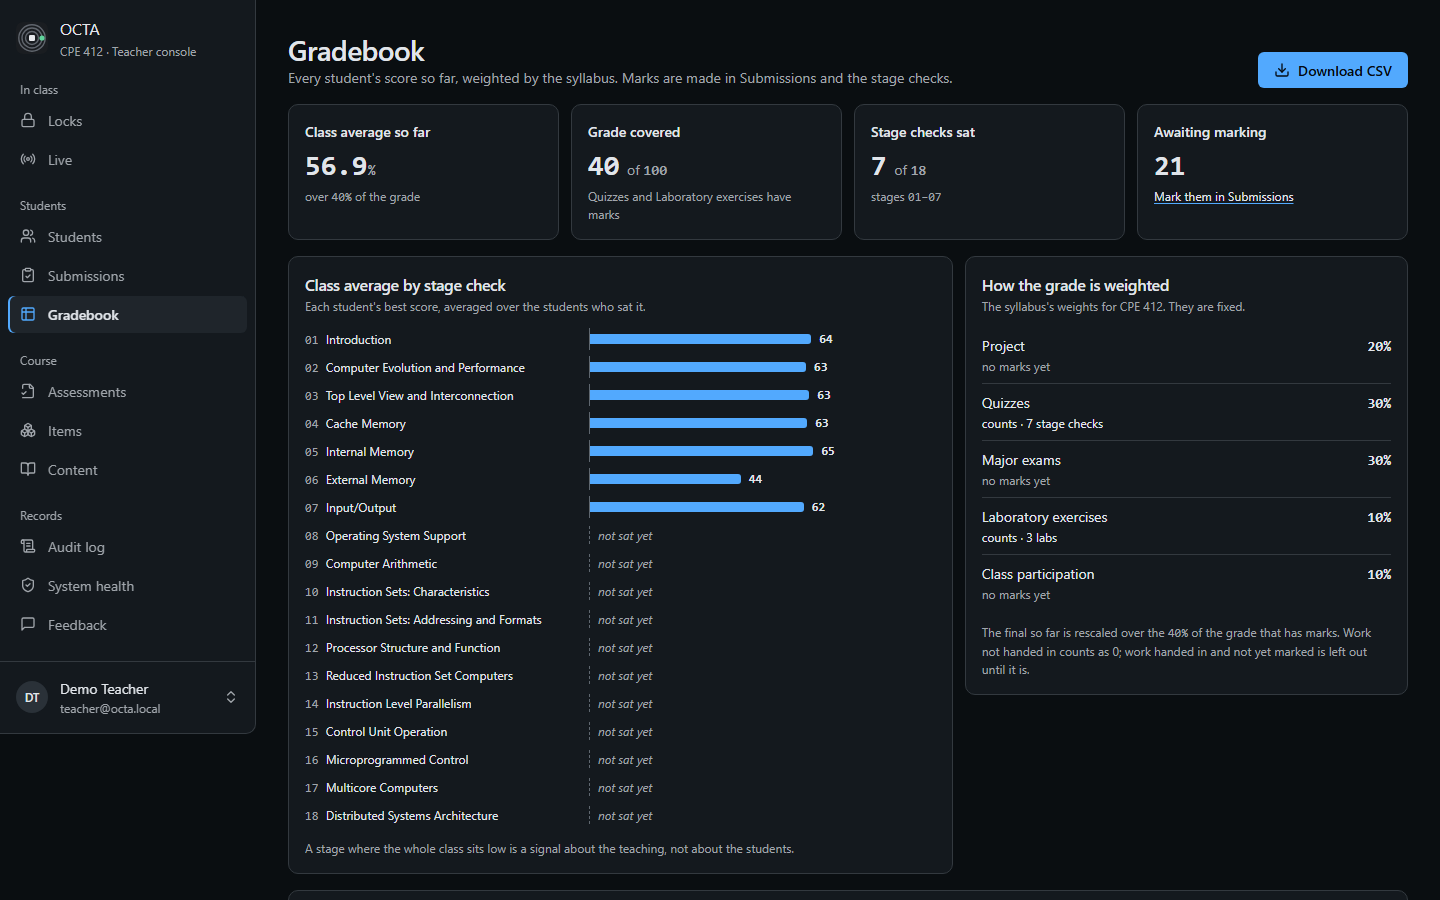
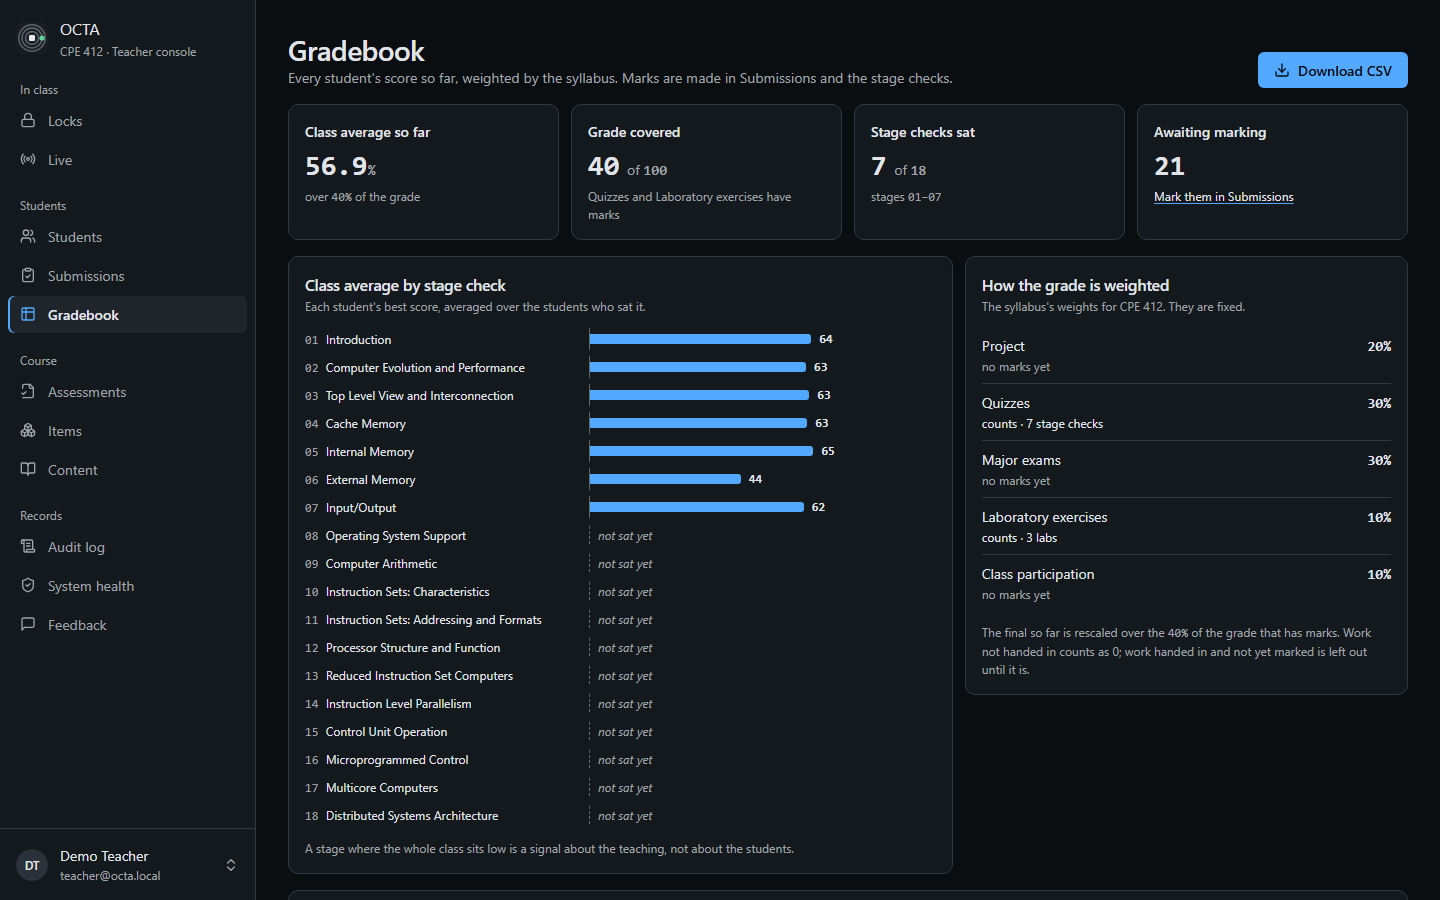
fix(console): the template's frame, and only the page scrolls
Instructor, on the content-height sidebar: "just make the layout of it
the same as the templates just make the inner page itself scrollable not
the sidebar". At lg and up the sidebar runs the window's height with the
account at its foot and never moves; <main> is the only scroller and the
document does not scroll. The 380 sheet is full height again.

main is position: relative, so absolute sr-only text stays in its scroll
box (it had grown the document to 2223px), and .shell does not clip, so
the gate reads content below main's fold as scrolled, not cut off.
console-shell.spec.ts asserts the new frame, watched failing against the
previous layout. Every console spec: 455 passed, 51 skipped, 0 failed.

diff --git a/apps/console/src/index.css b/apps/console/src/index.css
@@ -1643,8 +1643,8 @@
  * ------------------------------------------------------------ the shell
  *
  * `design/templates/console/shell/SPEC.md`: shadcn-admin's sidebar. At lg and
- * up a 16rem sidebar that STAYS (sticky, its own height), so a long page
- * never scrolls the nav and the account away. Below lg, a bar that names the
+ * up a full-height 16rem sidebar that never moves; only <main> scrolls, so a long
+ * page never takes the nav and the account with it. Below lg, a bar that names the
  * page, and the same <aside> as an 18rem sheet from the left over the scrim.
  *
  * 16rem, not wider: <main>'s content box is 70rem at 1440 with it, measured
@@ -1677,11 +1677,8 @@
   }
   .shell-side-open {
     position: fixed;
-    top: 0;
+    inset-block: 0;
     left: 0;
-    max-height: 100vh;
-    border-bottom: var(--border-hair) solid var(--line);
-    border-bottom-right-radius: var(--radius-lg);
     z-index: var(--z-sheet);
     width: 18rem;
     max-width: calc(100vw - var(--space-7));
@@ -1693,7 +1690,7 @@
   .shell-mark { width: var(--size-8); height: var(--size-8); flex-shrink: 0; }
 
   .shell-nav {
-    flex: 0 1 auto;
+    flex: 1;
     min-height: 0;
     overflow-y: auto;
     display: flex;
@@ -1761,30 +1758,32 @@
 
   .shell-skel-link { height: var(--space-5); margin: var(--space-1) var(--space-3); }
 
+  /*
+   * At lg and up the frame is the window, as in the template: the sidebar
+   * runs its full height with the account at its foot, and it never moves.
+   * ONLY <main> scrolls (instructor, 28 Sep 2026: "make the inner page itself
+   * scrollable, not the sidebar"). The document itself does not scroll, so a
+   * full-page capture at 1440 needs a viewport taller than the page.
+   */
   @media (min-width: 1024px) {
-    .shell { flex-direction: row; }
-    /*
-     * As tall as its content, not as tall as the window (instructor, 28 Sep
-     * 2026: "nav bar should not be this long"). It hangs from the top and
-     * stays there while the page scrolls; only a window shorter than the nav
-     * makes the nav scroll inside it.
-     */
+    /* No overflow: hidden here. The frame is exactly the window, <main> takes
+       every overflow, and a clipping .shell would make the gate read everything
+       below main's fold as cut off rather than scrolled. */
+    .shell { flex-direction: row; height: 100vh; }
     .shell-side,
     .shell-side-open {
-      position: sticky;
-      top: 0;
-      align-self: flex-start;
-      height: auto;
-      max-height: 100vh;
-      border-bottom: var(--border-hair) solid var(--line);
-      border-bottom-right-radius: var(--radius-lg);
+      position: static;
+      height: 100vh;
       width: 16rem;
       max-width: none;
       flex-shrink: 0;
       box-shadow: none;
       animation: none;
     }
-    .shell-main { padding: var(--space-6); }
+    /* position: relative makes <main> the containing block of every absolutely
+       positioned descendant (sr-only text among them). Without it they escape
+       the scroller and the DOCUMENT grows to 2223px on /gradebook. */
+    .shell-main { position: relative; height: 100vh; overflow-y: auto; padding: var(--space-6); }
   }
 
   /* Below lg the bar is sticky: a control scrolled into view must not park under it. */

diff --git a/design/specs/console-shell.spec.ts b/design/specs/console-shell.spec.ts
@@ -263,7 +263,7 @@ test.describe("the shell — what it owes every route", () => {
     expect(await page.evaluate(() => localStorage.getItem("octa:dev-token"))).toBeNull();
   });
 
-  test("1440: the sidebar stays beside a long page, and main keeps its 70rem", async ({ page }, testInfo) => {
+  test("1440: only <main> scrolls; the sidebar runs the window's height and never moves", async ({ page }, testInfo) => {
     test.skip(narrow(testInfo), "the sidebar is a sheet below lg");
     await open(page, "/gradebook");
     await page.locator("[data-student]").first().waitFor({ timeout: 15_000 });
@@ -277,13 +277,33 @@ test.describe("the shell — what it owes every route", () => {
     });
     expect(content, "main's content box at 1440").toBeGreaterThanOrEqual(70 * 16);
 
-    await page.evaluate(() => window.scrollTo(0, document.documentElement.scrollHeight));
+    /*
+     * Instructor, 28 Sep 2026: the template's layout, "make the inner page
+     * itself scrollable, not the sidebar". The DOCUMENT does not scroll;
+     * <main> does, and /gradebook is long enough that it must.
+     */
+    const scroll = await page.evaluate(() => {
+      const d = document.documentElement;
+      const m = document.querySelector("main")!;
+      return { doc: d.scrollHeight - d.clientHeight, main: m.scrollHeight - m.clientHeight };
+    });
+    expect(scroll.doc, "the window itself must not scroll").toBeLessThanOrEqual(0);
+    expect(scroll.main, "a long route scrolls inside <main>").toBeGreaterThan(0);
+
+    const footBefore = await accountButton(page).boundingBox();
+    await page.locator("main").evaluate((m) => m.scrollTo(0, m.scrollHeight));
     await page.waitForTimeout(200);
+    expect(await page.locator("main").evaluate((m) => m.scrollTop), "main scrolled").toBeGreaterThan(0);
+
+    // The account sits at the window's foot, and did not move.
     const box = await accountButton(page).boundingBox();
-    expect(box, "the account block is still on screen at the foot of the page").not.toBeNull();
+    expect(box).not.toBeNull();
     expect(box!.y + box!.height).toBeLessThanOrEqual(900);
-    expect(box!.y).toBeGreaterThan(0);
+    expect(box!.y + box!.height, "pinned to the foot of the window").toBeGreaterThan(900 - 80);
+    expect(box!.y).toBe(footBefore!.y);
     await expect(page.getByRole("link", { name: "Locks" })).toBeInViewport();
+    const side = await page.locator("#console-nav").boundingBox();
+    expect(side!.height, "the sidebar runs the window's full height").toBeGreaterThanOrEqual(899);
   });
 
   test("380: the bar names the page you are on", async ({ page }, testInfo) => {
@@ -299,6 +319,8 @@ test.describe("the shell — what it owes every route", () => {
     await open(page);
     await openMenu(page);
     await expect(menuButton(page)).toHaveAttribute("aria-expanded", "true");
+    // The template's sheet: the window's full height, the account at its foot.
+    expect((await page.locator("#console-nav").boundingBox())!.height).toBeGreaterThanOrEqual(843);
     await page.getByRole("link", { name: "Locks" }).focus();
     await page.keyboard.press("Escape");
     await expect(page.locator("#console-nav")).toBeHidden();

diff --git a/design/templates/console/shell/SPEC.md b/design/templates/console/shell/SPEC.md
@@ -15,13 +15,15 @@ since every route renders inside it.
   *Records*: Audit log, System health, Feedback. **Live moves up** beside
   Locks: they are the two pages opened mid-class. Every route is still
   offered; none is added or removed.
-- **The sidebar is only as tall as what it holds** ("nav bar should not be
-  this long", after the first build). The template's full-height column with
-  the account pinned to the window's foot left an empty column between
-  Feedback and the account on every screen. The sidebar now ends under the
-  account (733px at 1440), hangs from the top and stays there while the page
-  scrolls; it scrolls inside itself only in a window shorter than the nav.
-  The same for the 380 sheet.
+- **The template's layout, and only the page scrolls.** After the first
+  build ("nav bar should not be this long", when the sidebar was stretched
+  down a whole scrolling page), a content-height sidebar was tried and
+  rejected the same day: "It looks bad just make the layout of it the same
+  as the templates just make the inner page itself scrollable not the
+  sidebar". So at lg and up the frame is the window: the sidebar runs the
+  window's full height with the account at its foot and never moves, and
+  **`<main>` is the only scroller**; the document itself does not scroll. At
+  380 the sheet is full height, account at its foot, as in the template.
 - **No collapse control.** At 1440 it would change nothing a teacher can see
   (main keeps 70rem; the widest route needs 66rem), and a rail of eleven
   icons is not legible. Recorded as a deliberate absence.
@@ -51,19 +53,28 @@ groups; the collapse rail (ruling above); a header bar inside the content column
 ```
 <div shell>                                   flex row
   <a skip link>
-  <aside id=console-nav data-shell>           16rem, sticky top-0, CONTENT height (max 100vh),
-                                              border-r and -b, rounded bottom-right, surface-1
+<div shell>                                   height 100vh, NOT overflow: hidden (see below)
+  <aside id=console-nav data-shell>           16rem, 100vh, border-r, surface-1; never moves
     brand                                     /icon.svg mark · "OCTA" over "CPE 412 · Teacher console"
-    <nav aria-label="Console sections">       scrolls on its own only if the window is short
+    <nav aria-label="Console sections">       flex: 1; scrolls on its own only if the window is short
       group × 4: label (xs, muted) + <ul aria-labelledby>
-    account (directly under the nav)          DropdownMenuTrigger: initials, name, email · chevrons
-  <main id=main>                              min-w-0 flex-1, unchanged padding
+    account (pinned to the foot)              DropdownMenuTrigger: initials, name, email · chevrons
+  <main id=main>                              100vh, overflow-y: auto, position: relative; unchanged padding
 ```
 
-- The sidebar **stays**. It is `position: sticky`, so on `/gradebook`
-  (2285px tall) the nav and the account stay beside the page instead of
-  scrolling away. It is as tall as its content, so there is no empty column
-  under the nav either (the ruling above).
+- **Only `<main>` scrolls.** On `/gradebook` (2285px of content) the nav and
+  the account stay exactly where they are; `console-shell.spec.ts` asserts
+  the document does not scroll, `<main>` does, and the account's position is
+  unchanged after scrolling it to the end.
+- `<main>` is `position: relative`, so every absolutely positioned
+  descendant (sr-only text among them) belongs to its scroll box. Without it
+  they escaped, and the DOCUMENT grew to 2223px on `/gradebook`.
+- `.shell` must NOT be `overflow: hidden`. The gate's clipping check walks
+  up from each element; past `<main>` (a vertical scroller, allowed) it would
+  reach a clipping `.shell` and report everything below the fold as cut off.
+  That failed seven routes' assertion 1 at once, and was a false alarm.
+- A full-page capture at 1440 now needs a viewport as tall as `<main>`'s
+  CONTENT (measure its children, not `<main>`, which is the viewport's height).
 - **Width unchanged: 16rem.** `<main>`'s content box stays **70rem at 1440**,
   measured before and after on `/locks`, `/assessments`, `/submissions` and
   `/gradebook`. Those routes need 62, 64, 62 and 66rem.

diff --git a/docs/redesign/REVAMP-PROMPTS.md b/docs/redesign/REVAMP-PROMPTS.md
@@ -58,8 +58,9 @@ at handover: **R3 live at 50 / 73 (68%)**; all tracks **137 done · 74 to-do
 > 165 lines, reading `GET /api/v1/console/content` in
 > `services/api/src/routes/console.ts`). NOTHING ELSE. Not `/audit`,
 > `/system`, `/feedback` or `/live` (next, one per session), not
-> `/attempts/:attemptId` (last; §0e.3), not the shell (done and green; the
-> shell is 16rem, content-height and sticky, and must stay that way), not the
+> `/attempts/:attemptId` (last; §0e.3), not the shell (done and green: the
+> template's frame, a full-height 16rem sidebar that never moves, and
+> `<main>` the ONLY scroller at 1440; it must stay that way), not the
 > student app, not §0e.1's 500 on Start, §0f.1, §0g.1 or §0h.2. If you find a
 > defect on another page, write it down in `docs/NEXT-SESSION.md` and leave
 > it. The last thing this session does is rewrite this prompt for the next one.
@@ -115,8 +116,10 @@ at handover: **R3 live at 50 / 73 (68%)**; all tracks **137 done · 74 to-do
 >    under 400ms, a skeleton after, words after 3s), transitions per
 >    `.claude/rules/design.md`. `<main>` is **70rem** at 1440 under the
 >    shell; choose any table/list breakpoint from what the widest view needs.
-> 6. Capture `current.png` (1440, on a viewport TALLER than the page, so
->    nothing sticky is stitched) and `current-380.png`, against seeded data,
+> 6. Capture `current.png` and `current-380.png` against seeded data. At
+>    1440 the DOCUMENT does not scroll, `<main>` does (§0i.8): a full-page
+>    shot shows one screen unless the viewport is as tall as main's CONTENT
+>    (measure main's children, not main itself, which is the viewport's height),
 >    and **open every one and look**. Write `motion.md`. Run EVERY console
 >    spec. Then `git checkout -- design/item-review/`.
 > 7. Tick `/content` under the R3 "Console revamp" box in the same commit as
@@ -132,17 +135,24 @@ at handover: **R3 live at 50 / 73 (68%)**; all tracks **137 done · 74 to-do
 
 **What the shell session learned that every later route needs:**
 
-- **The instructor will look at the picture and overrule the template.** The
-  shell took shadcn-admin's full-height sidebar with the account pinned to the
-  window's foot; the instructor's first look was "nav bar should not be this
-  long". A template is a lead, not a ruling. Show the picture early.
+- **Show the picture early; the instructor rules on it.** The first build let
+  the sidebar stretch down the whole scrolling page ("nav bar should not be
+  this long"); a content-height sidebar looked worse; the ruling was the
+  template's own frame with only the page scrolling. Three passes in one
+  session, each settled by a screenshot, none by a spec.
+- **At 1440 `<main>` is the page's scroller now.** Scroll `main`, not
+  `window`. Two traps are in the shell's SPEC: a clipping ancestor above a
+  scroller makes the gate call everything below the fold "cut off" (seven
+  routes red at once, a false alarm), and a scroller that is not
+  `position: relative` lets absolute sr-only text escape and grow the page.
 - **Ask with a preview.** Grouping the nav and a collapse control were put as
   two questions, each with a recommended option and an ASCII preview of the
   result, and both came back in one round.
-- **A full-page screenshot of a sticky element lies.** Stitching a page
-  taller than the viewport draws a `100vh` sidebar ending mid-page. Capture on
-  a viewport taller than the page, and add a normal-height shot scrolled to
-  the foot when stickiness is the claim.
+- **A full-page screenshot of a fixed frame lies.** Stitching a page taller
+  than the viewport draws a `100vh` sidebar ending mid-page, and with
+  `<main>` scrolling there is nothing to stitch at all. Size the viewport to
+  the content, and add a normal-height shot scrolled to the end when "it
+  stays put" is the claim.
 - **The motion recorder only sees surfaces it names.** `_gate.ts` now records
   `menu` (`[role=menu]`) and `shell` (`[data-shell]`) as well as `main`,
   `dialog` and `toast`. Motion outside those is invisible to assertion 6.

diff --git a/docs/NEXT-SESSION.md b/docs/NEXT-SESSION.md
@@ -434,6 +434,23 @@ and §0h.2 (participation entry) are untouched.
 7. **`apps/console/test-results/`** sits untracked at the repo root of the
    console (it was there before this session). Playwright writes it when a
    spec runs from that directory. Add it to `.gitignore` or stop producing it.
+8. **At lg and up the DOCUMENT no longer scrolls; `<main>` does** (instructor
+   ruling, the template's frame). Every console spec passed unchanged (no spec
+   or page scrolled `window`), but from now on: scroll `main`, not `window`;
+   `position: sticky` inside a page sticks to `main`; and a full-page capture
+   at 1440 needs a viewport as tall as main's CONTENT (measure its children,
+   not `main`). Two traps met on the way, both in the SPEC: `.shell` must
+   not clip (the gate then read everything below main's fold as "cut off",
+   seven routes red at once, a false alarm), and `main` must be
+   `position: relative` (absolute sr-only text escaped it and grew the
+   document to 2223px).
+9. **Two reds seen once, in one full run, not since.** In the run where the
+   clipping false alarm fired: `console-assessment-window.spec.ts` "status
+   is a word decided by the window" (1440) and `console-submissions.spec.ts`
+   "a project takes a score out of a maximum" (380, "Response has been
+   disposed" while the context closed). Both passed in the next two runs
+   (targeted and full). Probably load under that run's seven failures; a red
+   that returns is real.
 
 ---
 

diff --git a/apps/console/CLAUDE.md b/apps/console/CLAUDE.md
@@ -42,9 +42,12 @@ change nothing a teacher can see.
 
 The sidebar is sticky and **16rem, and must stay 16rem**: `<main>` is 70rem at 1440 with it, and
 `/gradebook` (66rem), `/assessments` (64), `/locks` and `/submissions` (62) choose their table
-layout on their own width. A wider sidebar pushes all four to their lists. It is **only as tall as
-its content** (instructor, 28 Sep 2026: "nav bar should not be this long"), not a full-height
-column. The theme and Sign out live in the account menu directly under the nav; every sign-out goes through one handler and says so in a
+layout on their own width. A wider sidebar pushes all four to their lists. At lg and up the
+frame is the window, as in the template (instructor, 28 Sep 2026): the sidebar runs the full
+height with the account at its foot and never moves, and **`<main>` is the only scroller**; the
+document does not scroll. So a page that wants to scroll something scrolls `main`, not `window`,
+and a full-page capture at 1440 needs a viewport as tall as main's content. The theme and Sign out
+live in the account menu at the foot; every sign-out goes through one handler and says so in a
 toast. At 380 the same `<aside>` is a sheet: a disclosure, never a modal, closed by Escape, the
 scrim, any route change or Tab into the page, with focus back on its button.
 

diff --git a/docs/redesign/phases/R3-page-templates-and-redesign.md b/docs/redesign/phases/R3-page-templates-and-redesign.md
@@ -790,10 +790,11 @@ thesis deliverable, and right now no phase is accountable for it.
         **four groups by job** (In class: Locks, Live · Students: Students,
         Submissions, Gradebook · Course: Assessments, Items, Content ·
         Records: Audit log, System health, Feedback), and **no collapse
-        control**, and, after the first build, **a sidebar only as tall as its
-        content** ("nav bar should not be this long"). The sidebar is
-        **sticky** (it used to scroll away over an empty column on long
-        pages), still 16rem, so `<main>` keeps **70rem at
+        control**, and, after two looks at the build, **the template's frame
+        with only the page scrolling**: the sidebar runs the window's height
+        with the account at its foot and never moves, and `<main>` is the
+        only scroller (it used to scroll away with the page over an empty
+        column). Still 16rem, so `<main>` keeps **70rem at
         1440**, measured before and after on `/locks`, `/assessments`,
         `/submissions`, `/gradebook`. The account menu at the foot holds the
         theme (three radio items) and Sign out. At 380 a sticky bar names the

diff --git a/design/templates/console/shell/SOURCE.md b/design/templates/console/shell/SOURCE.md
@@ -26,10 +26,12 @@ hidden before capture.
 Measured in the page: sidebar `[left 0, width 256]`, content `[256, 1176]` at
 1440; the sheet `[0, 288]` at 380; the rail `64` collapsed.
 
-**Taken, then reversed by the instructor the same day:** the full-height
-column with the account pinned to the window's foot. On a 900px window it left
-~200px of empty sidebar between Feedback and the account, and on a tall one far
-more ("nav bar should not be this long"). Ours is as tall as its content.
+**Taken, as the instructor ruled after two tries:** the full-height column with
+the account pinned to the window's foot, and the content scrolling beside it.
+The first build let the sidebar stretch down the whole scrolling page ("nav bar
+should not be this long"); a content-height sidebar looked worse ("just make the
+layout of it the same as the templates just make the inner page itself
+scrollable not the sidebar"). Ours is now the template's frame.
 
 ## Alternative kept: `sidebar-with-toggle-theme`
 
